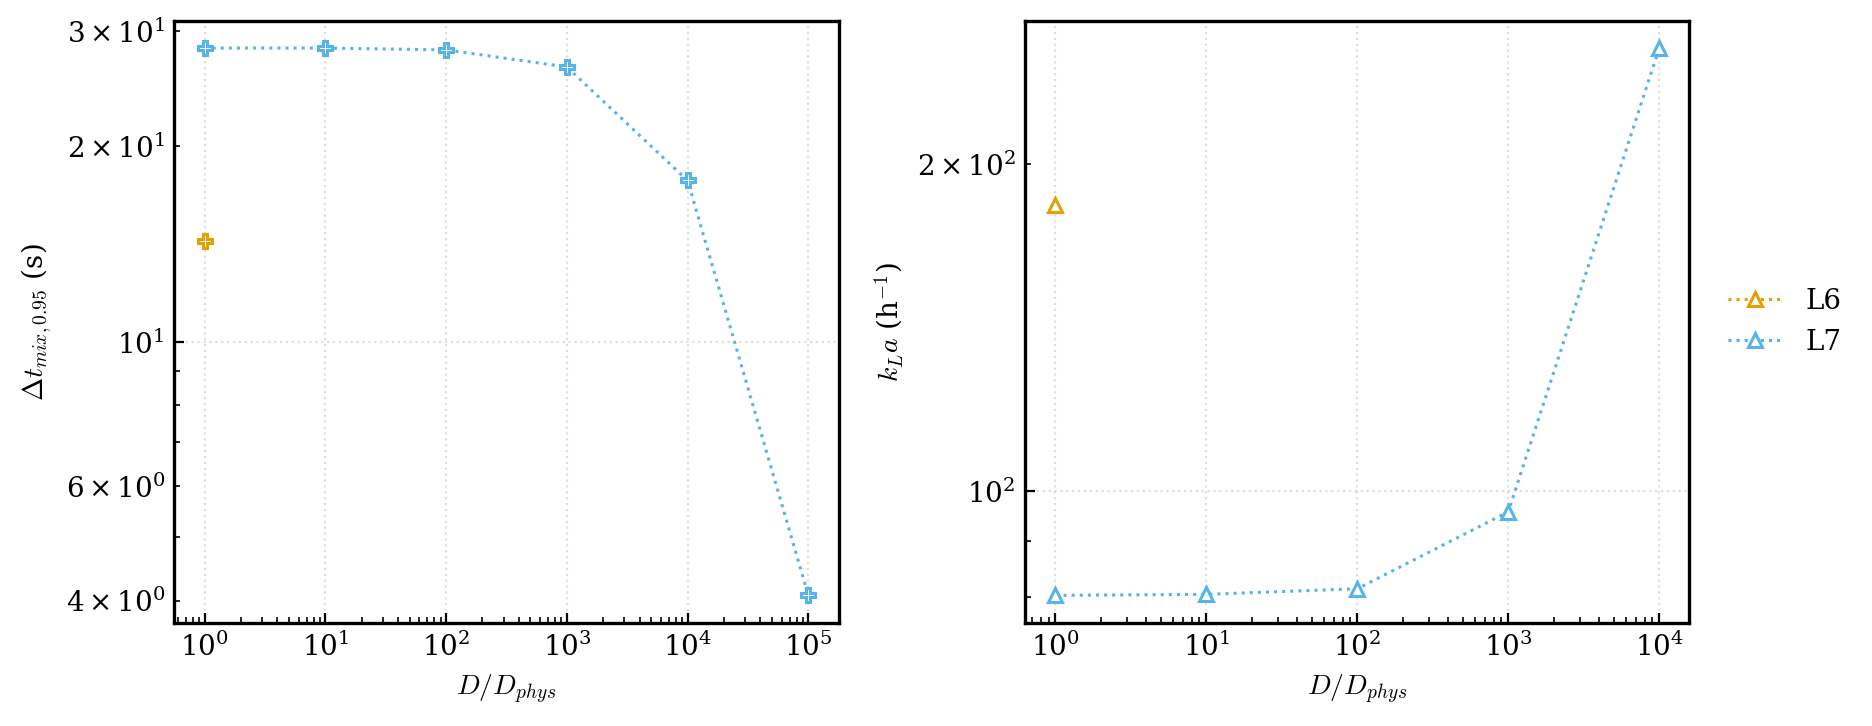
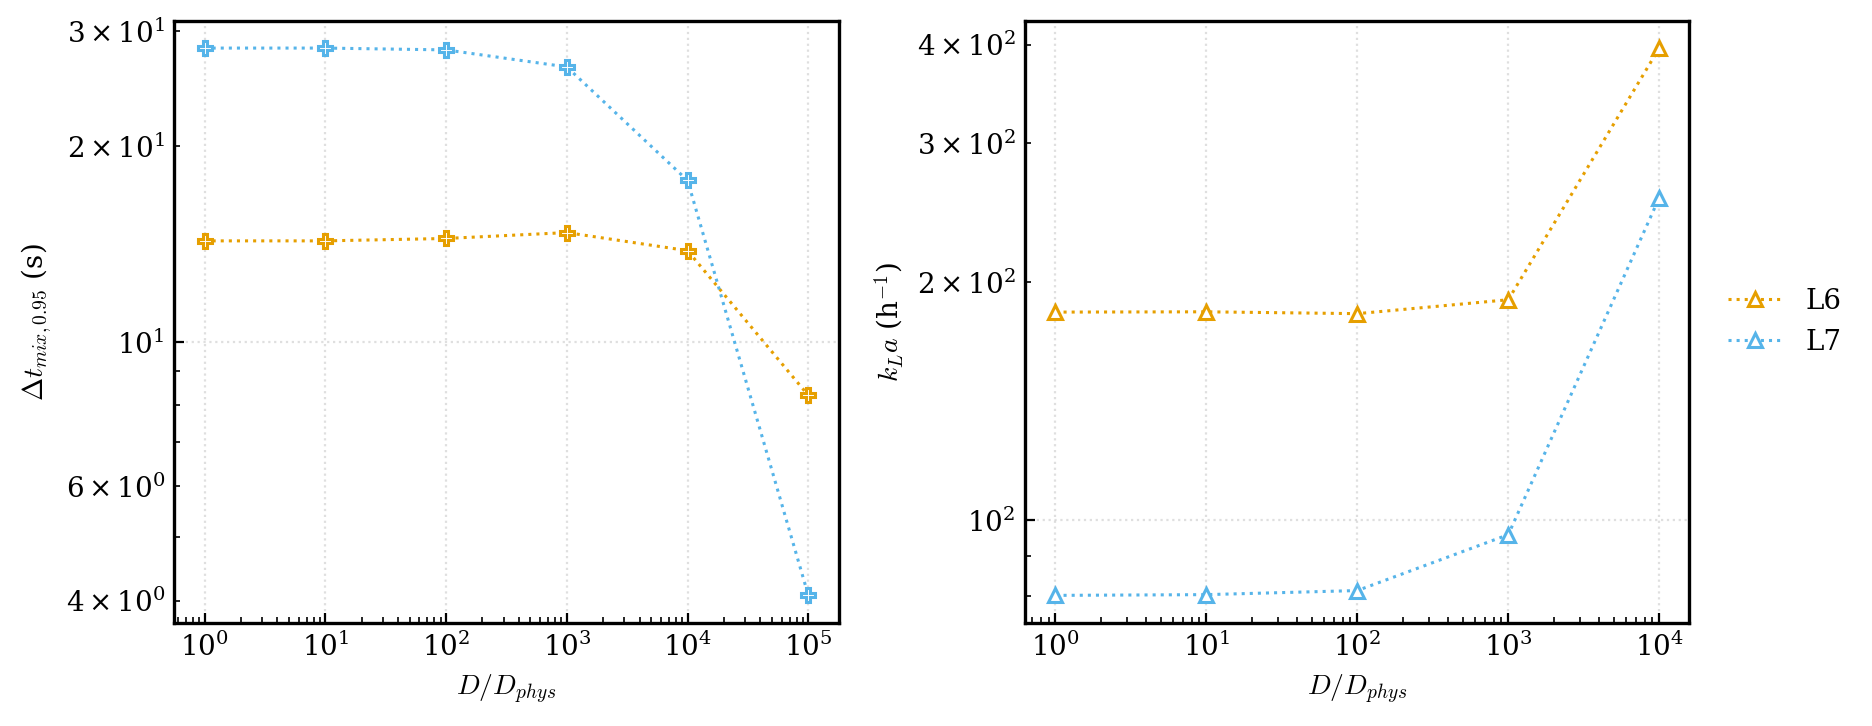
diary: test K L6, s* sign correction, T6 complete
Claude-Session: https://claude.ai/code/session_01YAKLKMs5oUYu8r6RenvudK

diff --git a/diary.md b/diary.md
@@ -260,10 +260,10 @@ C. kLa: "convergence plausible" (archive) vs "falls 1.7-2.8x per level, not conv
 - Why the grid, not physics, may set dtmix (first principles): stirring stretches tracer blobs into filaments that thin exponentially; variance is destroyed only when filaments reach the scale where diffusion acts in one stretching time, the Batchelor scale l_B = sqrt(D/gamma) [numbers here WRONG, guessed gamma; corrected below: 4-10 um from our eps]. Cells are ~0.25-1 mm at L10-L8. The cell Peclet number U dx/D ~ 1e4-1e5 (resolution needs ~2). So filaments reach the CELL size long before l_B, and the advection scheme's numerical diffusion (D_num, set by dx) destroys the variance. Prediction: dtmix depends on dx and not on D at every affordable level.
 - PRE-REGISTERED test K (diffusivity scan), compute ~2.5k core-h, needs a code change (runtime multiplier tracer_D_scale on D_tracer_1, and oxy_D_scale on D_oxy_1; default 1, bit-identical results at 1 to be checked) and a lean rebuild:
   32.5 rpm, theta 7, kmix protocol; D scale s in {1, 1e1, 1e2, 1e3, 1e4, 1e5} at L6, L7, L8 (18 runs) and s in {1, 1e3, 1e5} at L9 (3 runs). Oxygen scaled by the same s in the same runs (kLa read too).
-  Predictions: (i) GRID-CONTROLLED regime: for s below a level-dependent s*(L), dtmix is flat in s (changes < 10% from s = 1) and differs between levels (as now); (ii) PHYSICS-CONTROLLED regime: for s above s*(L), dtmix decreases with s and the levels AGREE (within 10% between the two finest levels at that s); (iii) s*(L) rises with refinement (D_num falls with dx).
+  Predictions: (i) GRID-CONTROLLED regime: for s below a level-dependent s*(L), dtmix is flat in s (changes < 10% from s = 1) and differs between levels (as now); (ii) PHYSICS-CONTROLLED regime: for s above s*(L), dtmix decreases with s and the levels AGREE (within 10% between the two finest levels at that s); (iii) s*(L) FALLS with refinement (s* ~ D_num/D and D_num falls with dx) [CORRECTED 2026-10-11: originally written "rises", a sign error; (iii) is not part of the verdict].
   Verdict "dtmix is NOT a well-posed target at physical D for L <= 10" if (i) holds at s = 1 and 10 for L7-L9 AND (ii) holds at s = 1e5 for L8-L9. If dtmix at L8 changes > 30% between s = 1 and 10, the premise D_num >> D is false and the verdict is rejected.
   Power: the test has a built-in positive control: at large s the physical diffusion must take over and collapse the levels; if it does not, the test cannot distinguish "numerical diffusion" from "flow not converged" and says so. Flat-in-s at s = 1-10 is a strong, falsifiable statement: a physically controlled mixing time would change by ~ln(10)/ln(Pe) ~ 13% per decade under the log law, ~3x the 0.02 replicate log-sd at 32.5 rpm (phase-locked, CV < 1%), so a 10% bar can detect it (stated threshold, not tuned).
-  Extrapolation to L10: the same rule applied with s*(L): if s*(L) grows ~2-4x per level, L10 is still far from s = 1; the minimum level where s* = 1 is estimated and reported (expected ~L15-16 from eta_B / dx, see correction below).
+  Extrapolation to L10: the same rule applied with s*(L): if s*(L) falls only ~2-4x per level, L10 is still far from s = 1 [same sign correction]; the minimum level where s* = 1 is estimated and reported (expected ~L15-16 from eta_B / dx, see correction below).
 - CORRECTION (user challenge, same day): my Batchelor-scale numbers (20-50 um, "needs ~L13-14") were from a GUESSED strain rate (0.2-1 1/s) and are wrong. Standard definition (Batchelor 1959, as Wikipedia): eta_B = (nu D^2/eps)^(1/4) = eta_K/sqrt(Sc). It equals sqrt(D/gamma) when gamma = sqrt(eps/nu) (Kolmogorov strain rate), so the two forms agree once gamma is taken from the data, not guessed. From our own domain-mean dissipation (scripts/diag_batchelor.py -> experiments/multifidelity/diag_batchelor.json; eps = edr_mean_t/rho; gamma = sqrt(eps/nu) = 4-24 1/s):
   - eta_K = 200-500 um; dx/eta_K at L10 = 0.6-1.2: the velocity field is resolved near the Kolmogorov scale at L10 (consistent with tau/EDR changing little L9 -> L10).
   - Tracer eta_B = 4-10 um (Sc ~ 2300); oxygen eta_B = 9-22 um (Sc ~ 530). dx/eta_B(tracer) at L10 = 27-58, at L8 = 104-165. Resolving eta_B (dx ~ eta_B) would need dx ~ 4-10 um, i.e. L ~ 15-16 (not 13-14).
@@ -298,3 +298,8 @@ C. kLa: "convergence plausible" (archive) vs "falls 1.7-2.8x per level, not conv
   Reading at L7: dtmix is flat to 0.6% up to s = 100 and first moves at s = 1e3 (-6%). So at L7 the variance is destroyed by something ~100-1000x stronger than the physical D: numerical diffusion, D_num(L7) ~ 1e2-1e3 D (order of magnitude only). Condition (i) holds at L7. kLa responds earlier than dtmix (kLa_25 +16% at s = 100) but is still flat at s = 10 (+0.5%), while penetration theory predicts kLa ~ sqrt(D), i.e. x3.2 per decade if the interface layer were resolved. Between s = 1e3 and 1e4 kLa_25 rises x3.06, close to sqrt(10) = 3.16: a HYPOTHESIS that the physics-controlled regime of kLa starts there at L7 (to be checked on L8: s*(L) must rise with level).
   Power of the L7 part: under the log law a physically controlled dtmix would move ~13% per decade (pre-registration), and the replicate log-sd is 0.02; the measured change s 1 -> 10 is 0.00%. kLa: the alternative (resolved, ~sqrt(D)) predicts +216% per decade; measured +0.2%. Both are far outside noise, so L7 is a strong rejection of "physical D sets dtmix/kLa at L7". It says nothing yet about L8-L10; that is what k_l8/k_l9 decide.
 - Test K AMENDMENT (2026-10-10, made BEFORE any L8 or L9 result exists; disclosed): the verdict needs condition (i) "at s = 1 and 10 for L7-L9", but my design had no L9 s = 10 run, so the verdict could never fire as written (found by the analysis agent). Added k_l9_s1e1 (job 7282881, 32 ranks, 30 h, ~1000 core-h). Nothing else changes. Analysis: scripts/test_k_diffusivity.py (Sonnet; reviewed; rule as a pure function, 8 unit tests pass) -> experiments/multifidelity/test_k_summary.json and test_k_diffusivity.png. Precedence: REJECTED > PENDING > NOT WELL-POSED > INCONCLUSIVE; L9 s = 1e3 is reported only but still waited for.
+
+## 2026-10-11 — Test K L6 complete; T6 LF set complete
+- Test K L6 (6/6): dtmix_0.50/0.75/0.95 at s = 1 = 4.86/9.24/14.29 s; s = 10 identical (0.0%); s = 1e2: -3.8/-0.7/+0.9%; s = 1e3: -6.3/-0.7/+3.0%; s = 1e4: -40/-10/-3%; s = 1e5: -84/-81/-42%. kLa_1T_25 flat to s = 1e3 (+3.7%), +116% at 1e4. Caveat: L6 loses 7-10% tracer mass (CURRENT STATE), so L6 is the least trusted level; it is not in the verdict.
+- Descriptive s*(L) (smallest scanned s with |log change| > 0.10, decade resolution): dtmix_0.95 1e5 (L6) -> 1e4 (L7); kLa_1T_25 1e4 -> 1e3. So s* falls ~10x per level from L6 to L7, consistent with corrected (iii). HYPOTHESIS, not evidence: if the 10x/level held, s*(L10) ~ 10 and physical D would start to matter near L11. The decade grid cannot resolve the factor (could be 3-30x); L8/L9 decide. If D_num ~ dx (first-order-like) s* would fall only 2x/level; ~10x/level would mean a much steeper dx dependence or a threshold effect. I do not interpret further before L8.
+- T6 (rpm x theta L8 LF set): 40/40 complete. With theta 7 that gives the 50-run L8 LF set for the 2-D map. HF design still waits on the x8 warm-start check and the tau_95 fix.
